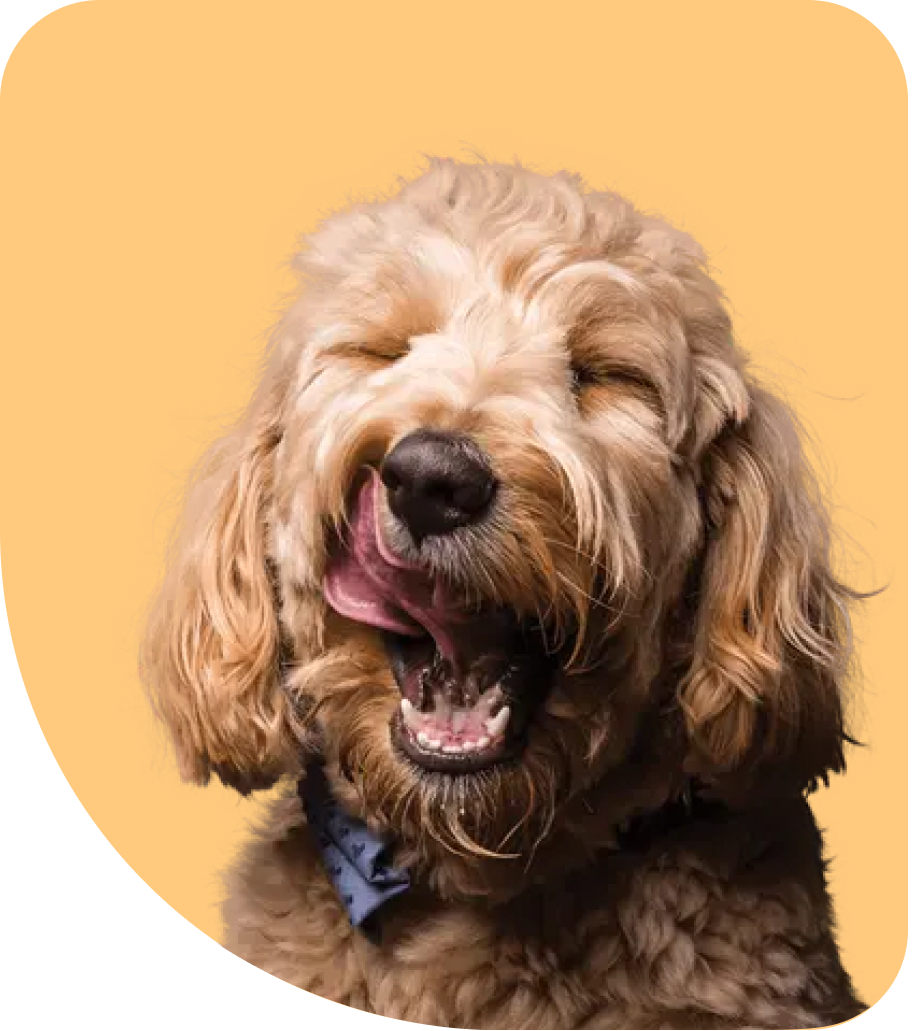
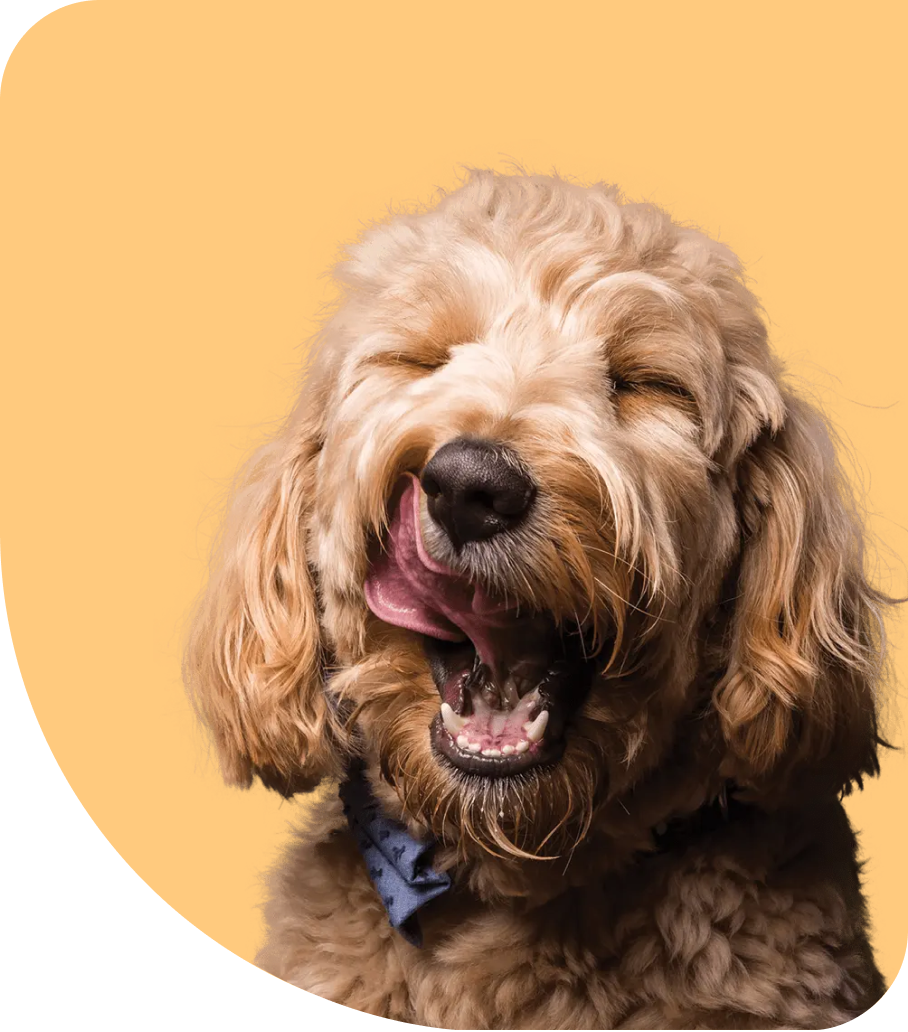
minor fixes
- changed image for better quality
-change colors , some padding

paki check daw if okay ra tan awn sa imoha pls thank u

diff --git a/client/src/components/mainhero.css b/client/src/components/mainhero.css
@@ -27,6 +27,7 @@
 .subtitle {
   font-size: 24px;
   margin-bottom: 5%;
+  color: #6C6853;
 }
 
 .loginBtn {
@@ -109,7 +110,7 @@ h3 .loginspan {
   .container {
     width: 50%;
     height: 100%;
-    margin-top: 4%;
+    margin-top: 3%;
   }
 
   .logo {
@@ -124,8 +125,9 @@ h3 .loginspan {
   }
 
   .subtitle {
-    font-size: 18px;
-    margin-bottom: 7%;
+    font-size: 22 px;
+    margin-bottom: 5%;
+    margin-top: 3%;
   }
 
   .loginBtn {
@@ -180,7 +182,6 @@ h3 .loginspan {
 
   .emailNum {
     text-align: left;
-    margin-right: 24%;
   }
 
   h3 {

diff --git a/client/src/components/mainheroimage.css b/client/src/components/mainheroimage.css
@@ -15,8 +15,9 @@
 
 @media screen and (min-device-width: 1200px) and (max-device-width: 1600px) and (-webkit-min-device-pixel-ratio: 1) {
   .imagecontainer img {
-    margin-left: 5%;
-    height: 75%;
-    width: 100%;
+    position: absolute;
+    right: -1%;
+    height: 98vh;
+    width: 46vw;
   }
 }
